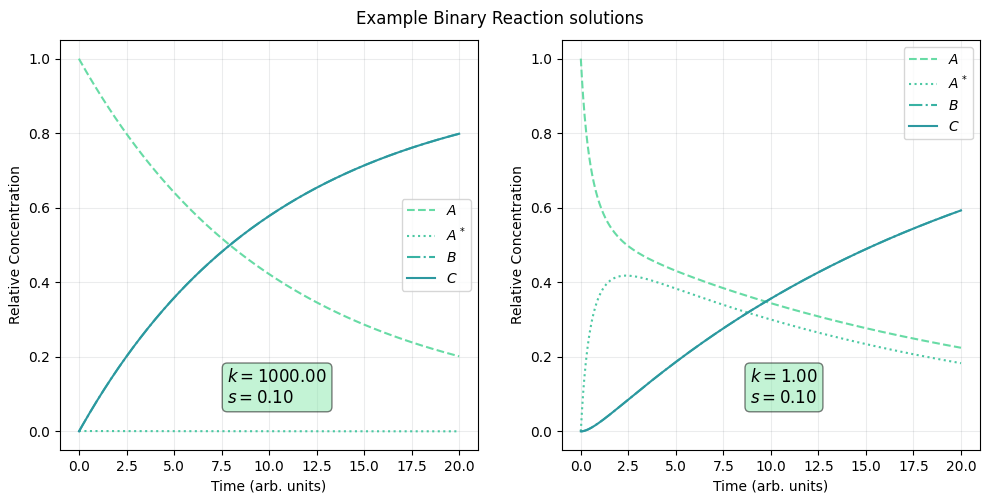
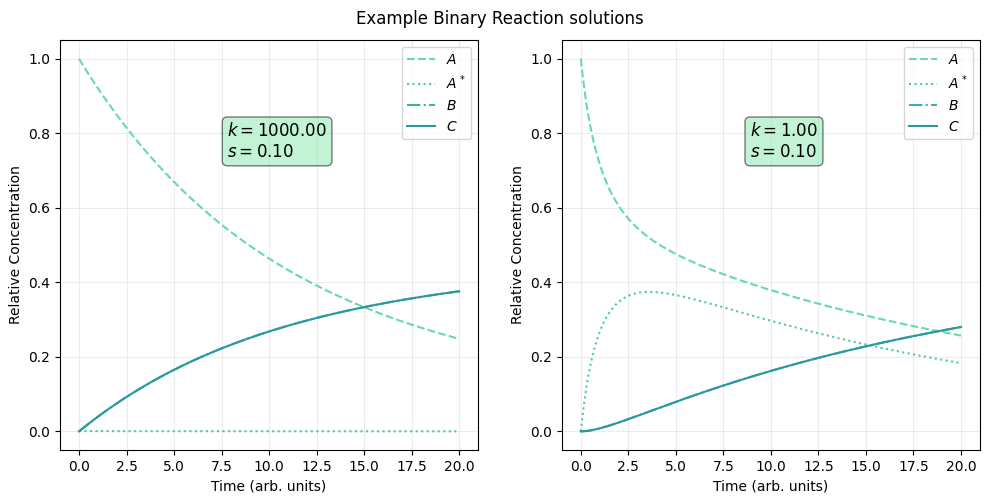
feat: :art: add updated plots of basic and exact solution

diff --git a/BinaryReactions/Code/basic.py b/BinaryReactions/Code/basic.py
@@ -46,7 +46,7 @@ textstr = '\n'.join((
     r'$k=%.2f$' % (k, ),
     r'$s=%.2f$' % (s, )))
 props = dict(boxstyle='round', facecolor=colors[1], alpha=0.5)
-ax[0].text(0.40, 0.20, textstr, transform=ax[0].transAxes, fontsize=12,
+ax[0].text(0.40, 0.80, textstr, transform=ax[0].transAxes, fontsize=12,
         verticalalignment='top', bbox=props)
 
 ax[0].set_ylabel('Relative Concentration')
@@ -64,7 +64,7 @@ textstr = '\n'.join((
     r'$k=%.2f$' % (k2, ),
     r'$s=%.2f$' % (s2, )))
 props = dict(boxstyle='round', facecolor=colors[1], alpha=0.5)
-ax[1].text(0.45, 0.20, textstr, transform=ax[1].transAxes, fontsize=12,
+ax[1].text(0.45, 0.80, textstr, transform=ax[1].transAxes, fontsize=12,
         verticalalignment='top', bbox=props)
 
 ax[1].set_ylabel('Relative Concentration')

diff --git a/BinaryReactions/Code/equilibrium.py b/BinaryReactions/Code/equilibrium.py
@@ -67,7 +67,7 @@ lgnd = ax[0].legend([(l_A1, l_A2, l_A3),
                     (l_BC1, l_BC2, l_BC3),],
                     [r'$A$', r'$A^*$', r'$B+C$'],
                     handler_map={tuple: HandlerTuple(ndivide=None)},
-                    loc='upper center', ncols=3, fontsize=11)
+                    loc='upper left', ncols=1, fontsize=10)
 
 ax[0].grid(color="#424656", alpha=0.1)
 
@@ -120,6 +120,6 @@ cbar.set_label(r'$s$')
 
 
 
-plt.suptitle("Exact solutions of the Binary reaction for different values of $s$")
+plt.suptitle("Solutions of the Binary reaction for different values of $s$")
 plt.subplots_adjust(left=0.06, right=0.98, bottom=0.10, top=0.92)
 plt.show()
